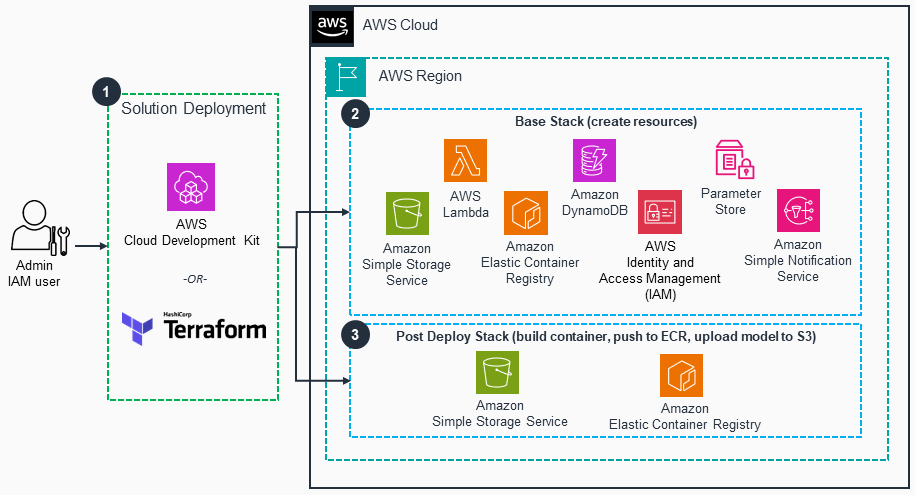
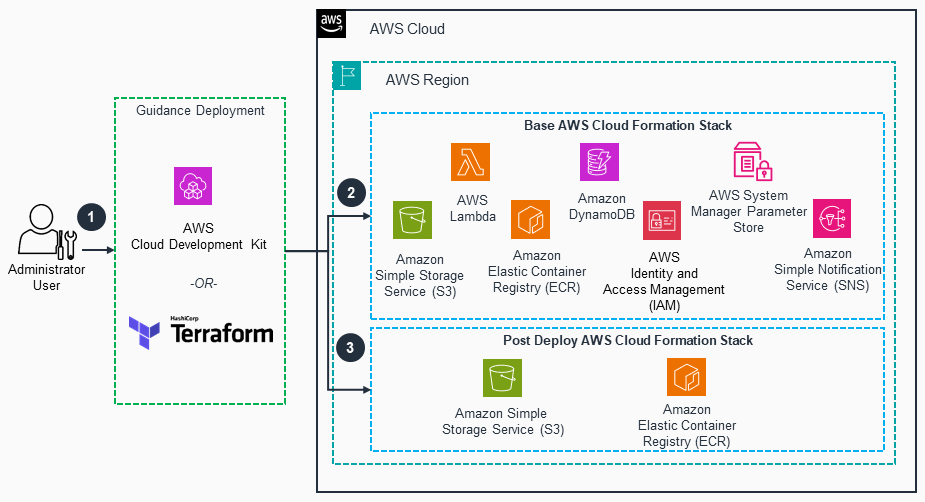
Updated arch diagram

diff --git a/README.md b/README.md
@@ -42,19 +42,19 @@ This guidance will:
 </div>
 
 ### Architecture Steps
-1. User authenticates to AWS Identity and Access Management (IAM) via AWS Tools and SDKs.
-2. The configuration and input media is uploaded to a dedicated Amazon Simple Storage Service (S3) bucket location. This can be done using a Gradio interface and AWS Software Development Kit (SDK).
-3. Optionally, the solution supports external job submission by uploading a ‘.json’ job configuration file and media into a designated S3 bucket location. 
-4. The job json file uploaded to the bucket will trigger an Amazon Simple Notification Service (SNS) message that will invoke an initialization AWS Lambda function.
-5. The initialization Lambda function will perform input validation and set appropriate variables for the state machine.
-6. The workflow job record will be created in Amazon DynamoDB job table.
-7. The initialization Lambda function will invoke an AWS Step Functions State Machine to handle the entire workflow job.
-8. An Amazon SageMaker Training Job will be submitted synchronously using the state machine built-in wait until completion mechanism. 
-10. The Amazon Elastic Container Registry (ECR) container image and S3 model artifacts will be used to spin up a new graphics processing unit (GPU) container. The instance type is determined by the job json configuration.
-11. The GPU container will run the entire pipeline.
-12. Upon job completion, a final Lambda function will complete the workflow job by updating the job metadata in DynamoDB and notifying the user via email upon completion using SNS.
-13. Internal workflow parameters are stored in Parameter Store during solution deployment to decouple services.
-Amazon CloudWatch is used to monitor the training logs, surfacing errors to the user.
+1. User authenticates to [AWS Identity and Access Management (IAM)](https://aws.amazon.com/iam/) via AWS Tools and SDKs.
+2. The input is uploaded to a dedicated [Amazon Simple Storage Service (S3)](https://aws.amazon.com/s3/)  job bucket location. This can be done using a Gradio interface and AWS Software Development Kit (SDK).
+3. Optionally, the solution supports external job submission by uploading a ‘.JSON’ job configuration file and media into a designated S3 job bucket location. 
+4. The job JSON file uploaded to the S3 job bucket will trigger an [Amazon Simple Notification Service (SNS)](https://aws.amazon.com/sns/) message that will invoke an initialization [AWS Lambda](https://aws.amazon.com/lambda/) function.
+5. The job trigger **AWS Lambda** function will perform input validation and set appropriate variables for the [AWS Step Function State Machine](https://aws.amazon.com/step-functions/).
+6. The workflow job record will be created in [Amazon DynamoDB](https://aws.amazon.com/dynamodb/) job table.
+7. The job trigger **AWS Lambda** function will invoke an **AWS Step Functions State Machine** to handle the entire workflow job.
+8. An [Amazon SageMaker](https://aws.amazon.com/sagemaker/) Training Job will be submitted synchronously using the state machine built-in wait until completion mechanism. 
+9. The [Amazon Elastic Container Registry (ECR)](https://aws.amazon.com/ecr/) container image and S3 job bucket model artifacts will be used to spin up a new Graphics Processing Unit (GPU) container. The compute node instance type is determined by the job JSON configuration.
+10. The GPU container will run the entire pipeline as an **Amazon SageMaker** training job.
+11. The job completion **AWS Lambda** function will complete the workflow job by updating the job metadata in **Amazon DynamoDB** and notifying the user via email upon completion using **Amazon SNS**.
+12. Internal workflow parameters are stored in [AWS System Manager Parameter Store](https://docs.aws.amazon.com/systems-manager/latest/userguide/systems-manager-parameter-store.html) during guidance deployment to decouple the job trigger **AWS Lambda** function and the **AWS Step Function State Machine**.
+13. [Amazon CloudWatch](https://aws.amazon.com/cloudwatch/) is used to monitor the training logs, surfacing errors to the user.
 
 ### AWS Services in this Guidance
 
